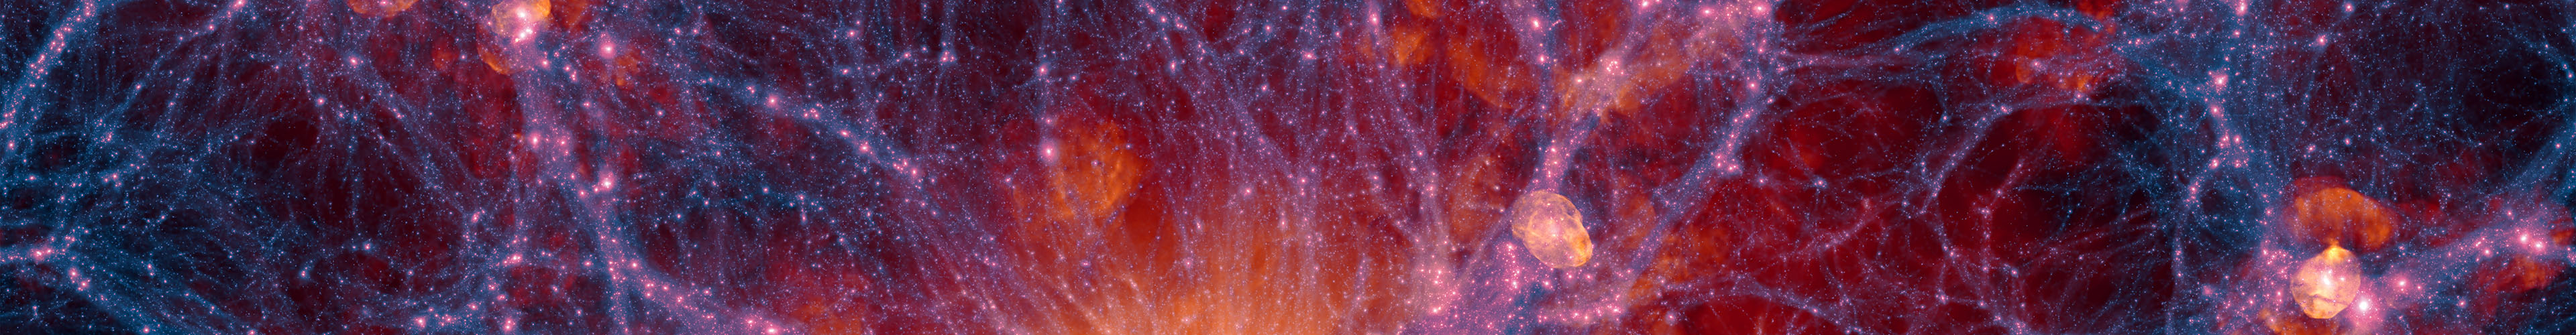
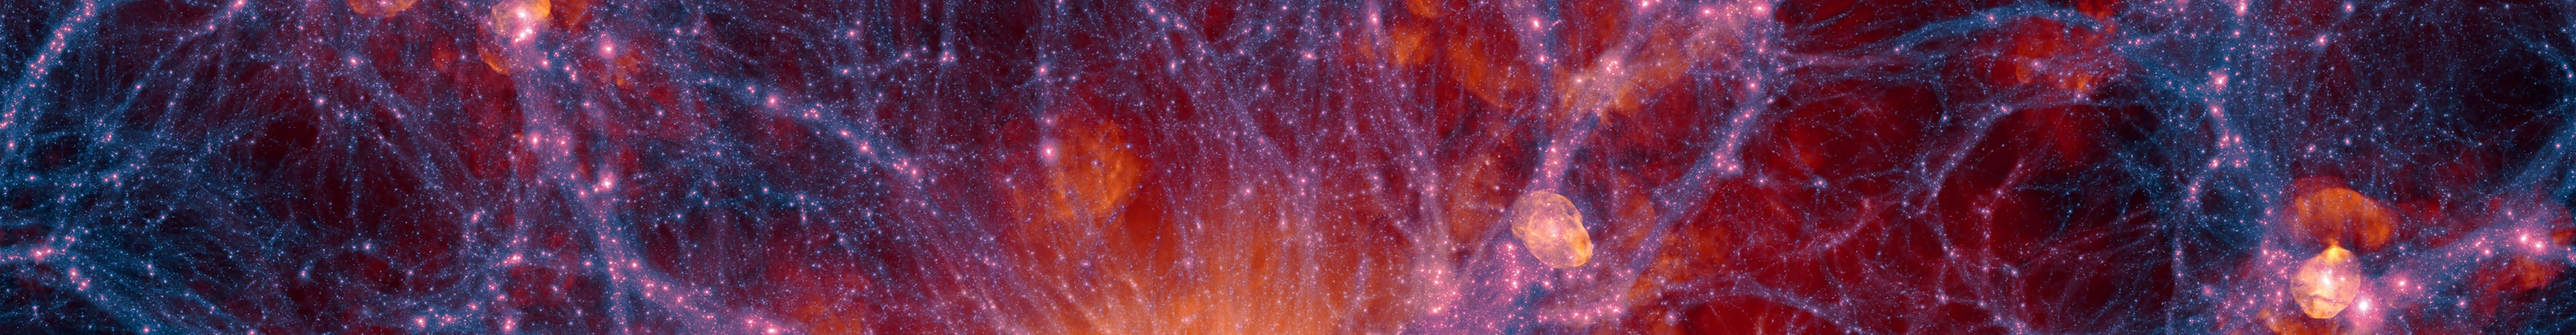
Code Refactoring Updated Meta tags for all pages. Image Optimization sitemap Update

diff --git a/pages/about.html b/pages/about.html
@@ -4,13 +4,13 @@
     <meta charset="UTF-8">
     <meta http-equiv="X-UA-Compatible" content="IE=edge">
     <meta name="viewport" content="width=device-width, initial-scale=1.0">
-    <title>Sparxastronomy</title>
-    <meta name="description" content="Personal portfolio: About me page">
+    <title>About Me</title>
+    <meta name="description" content="This page contains info about Bipradeep Saha, who is an UG student at IISER-Kolkata">
     <link rel="shortcut icon" href="/media/logo/favicon.png" type="image/png">
     <link rel="stylesheet" href="/styles/style.css">
     <link rel="stylesheet" href="/styles/footer.css">
     <link rel="stylesheet" href="/styles/home.css">
-    <link rel="stylesheet" href="/styles/currently_working.css">
+    <link rel="stylesheet" href="/styles/base_content.css">
     <link rel="stylesheet" href="/styles/about.css">
     <link href="https://stackpath.bootstrapcdn.com/font-awesome/4.7.0/css/font-awesome.min.css" rel="stylesheet" >
     <script src="/js/script.js" defer></script>
@@ -19,7 +19,7 @@
 <body>
     
     <nav class="navbar">
-        <div class="logo"><a href="index.html"><img src="/media/logo/sparxastronomy.png" class="responsive-logo"></img> </a></div>
+        <div class="logo"><a href="/index.html"><img src="/media/logo/sparxastronomy.png" class="responsive-logo"></img> </a></div>
         <a href="#" class="toggle-button">
             <span class="bar"></span>
             <span class="bar"></span>
@@ -46,12 +46,17 @@
     <section class='home about' id='about'>        
         <div class="about-container">
             <div class="content">
+                <!-- My image -->
                 <div class="content-image single">
                     <img src="/media/about_me/small_dp.png" width='300px' alt="me">
                 </div>
+                
+                <!-- Greetings -->
                 <div class="content-info">
                     <h5>Hi there, I'm Bipradeep Saha</h5>
                 </div>
+
+                <!-- About myself -->
                 <div class="content-info">
                     <p>
                         I’m a second year undergraduate perusing Integrated BS-MS from Indian Institute of Science Education and Research-Kolkata (India), majoring in Physical Sciences.

diff --git a/pages/currently.html b/pages/currently.html
@@ -4,13 +4,13 @@
     <meta charset="UTF-8">
     <meta http-equiv="X-UA-Compatible" content="IE=edge">
     <meta name="viewport" content="width=device-width, initial-scale=1.0">
-    <title>Sparxastronomy</title>
-    <meta name="description" content="Personal portfolio: Details of current projects">
+    <title>Currently Working</title>
+    <meta name="description" content="This page contains details about current projects of Bipradeep. He is currently working on projects using data from CXO ">
     <link rel="shortcut icon" href="/media/logo/favicon.png" type="image/png">
     <link rel="stylesheet" href="/styles/style.css">
     <link rel="stylesheet" href="/styles/footer.css">
     <link rel="stylesheet" href="/styles/home.css">
-    <link rel="stylesheet" href="/styles/currently_working.css">
+    <link rel="stylesheet" href="/styles/base_content.css">
     <link href="https://stackpath.bootstrapcdn.com/font-awesome/4.7.0/css/font-awesome.min.css" rel="stylesheet" >
     <script type="text/javascript" id="MathJax-script" async src="https://cdn.jsdelivr.net/npm/mathjax@3/es5/tex-mml-chtml.js"></script>
     <script src="/js/script.js" defer></script>
@@ -48,10 +48,10 @@
     <section class='home' id='currently'>
         <h1>This Page is under devlopment</h1>
         <div class="boxed-content">
-            <p>Welcome to my currently-working page. Here the contents are about the pojects that I'm presently working on.</p>
+            <p> Welcome to my currently-working page. Here the contents are about the pojects that I'm presently working on.</p>
         </div>
-
         
+        <!-- First content of currently working page -->
         <div class="content">
             <h1>DEM L71 (<em>SNR J0505.7-6752</em>)</h1>
             <!-- overview -->

diff --git a/pages/previous.html b/pages/previous.html
@@ -4,13 +4,13 @@
     <meta charset="UTF-8">
     <meta http-equiv="X-UA-Compatible" content="IE=edge">
     <meta name="viewport" content="width=device-width, initial-scale=1.0">
-    <title>Sparxastronomy</title>
-    <meta name="description" content="Personal portfolio: Past Project details">
+    <title>Previous Projects</title>
+    <meta name="description" content="This containis information about the previous projects of Bipradeep">
     <link rel="shortcut icon" href="/media/logo/favicon.png" type="image/png">
     <link rel="stylesheet" href="/styles/style.css">
     <link rel="stylesheet" href="/styles/footer.css">
     <link rel="stylesheet" href="/styles/home.css">
-    <link rel="stylesheet" href="/styles/currently_working.css">
+    <link rel="stylesheet" href="/styles/base_content.css">
     <link rel="stylesheet" href="/styles/previous.css">
     <link href="https://stackpath.bootstrapcdn.com/font-awesome/4.7.0/css/font-awesome.min.css" rel="stylesheet" >
     <script src="/js/script.js" defer></script>
@@ -19,7 +19,7 @@
 <body>
     
     <nav class="navbar">
-        <div class="logo"><a href="index.html"><img src="/media/logo/sparxastronomy.png" class="responsive-logo"></img> </a></div>
+        <div class="logo"><a href="/index.html"><img src="/media/logo/sparxastronomy.png" class="responsive-logo"></img> </a></div>
         <a href="#" class="toggle-button">
             <span class="bar"></span>
             <span class="bar"></span>

diff --git a/index.html b/index.html
@@ -5,7 +5,7 @@
     <meta http-equiv="X-UA-Compatible" content="IE=edge">
     <meta name="viewport" content="width=device-width, initial-scale=1.0">
     <title>Sparxastronomy</title>
-    <meta name="description" content="Personal portfolio home page">
+    <meta name="description" content="This is the personal prtfoilio website of Bipradeep Saha. Get to know about his work here">
     <link rel="shortcut icon" href="/media/logo/favicon.png" type="image/png">
     <link rel="stylesheet" href="/styles/style.css">
     <link rel="stylesheet" href="/styles/footer.css">
@@ -45,7 +45,7 @@
     <section class='home' id='home'>
         <h1>This page is still under Development</h1>
         <div class='boxed-content'>
-            <p>Hi there, I am Bipradeep welcome to my portfolio page. I'm a second year undergraduate at IISER-Kolkata majoring in physics. Here I'd  be posting updates about my reserach and past experiences.</p>
+            <p>🖐Hi there, I am Bipradeep. I'm a second year undergraduate at IISER-Kolkata majoring in physics. Here I'd  be posting updates about my reserach.</p>
             <br>
             <p>So, welcome onboard on a journey with me to explore the cosmos</p>
         </div>

diff --git a/styles/base_content.css b/styles/base_content.css
@@ -1,15 +1,4 @@
-/* :root {
-  --text: black;
-  --bkg: rgba(240, 240, 240, 0.945);
-  --card-bkg: white;
-  --shadow: rgba(0, 0, 0, 0.5);
-}
-.dark-theme {
-  --text: #efefef;
-  --bkg: #121212;
-  --card-bkg: rgb(39, 39, 39);
-  --shadow: rgb(0, 0, 0);
-} */
+/* This is the main css for contents on the website except on the home page */
 
 /* Home page styling */
 @import url("https://fonts.googleapis.com/css2?family=Varela+Round&display=swap");

diff --git a/styles/home.css b/styles/home.css
@@ -1,3 +1,4 @@
+/* This is the CSS for home page */
 :root {
   --text: black;
   --bkg: rgba(240, 240, 240, 0.945);
@@ -114,7 +115,7 @@
 }
 .boxed-content p {
   font-size: 21px;
-  font-weight: 300;
+  font-weight: 370;
   font-style: italic;
 }
 

diff --git a/styles/about.css b/styles/about.css
@@ -1,3 +1,4 @@
+/* CSS content specific only for about me page */
 .about-container {
   width: 90%;
   margin: auto;

diff --git a/styles/previous.css b/styles/previous.css
@@ -1,3 +1,4 @@
+/* CSS content specific only for previously working page */
 .embed {
   margin: auto;
   width: 90%;
